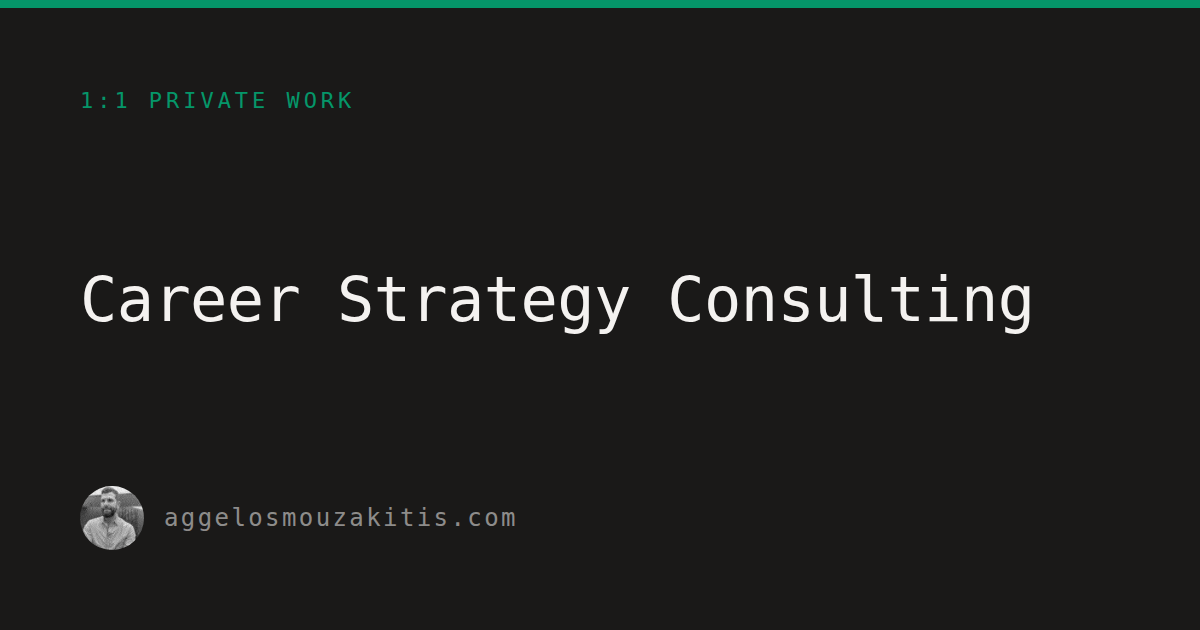
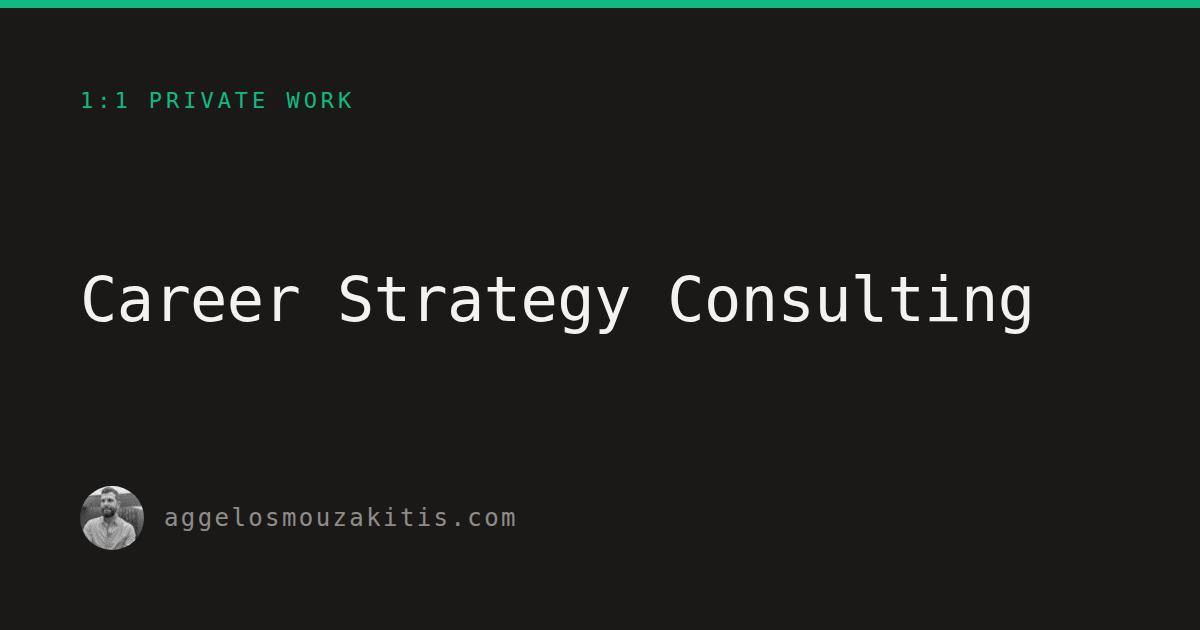
OG images: use the on-dark green for the dark share-card template
The site-wide green swap set og.js to the deep #047857, but the OG card is
dark — the vibrant on-dark green #10B981 is the right accent there (matching
what the dark sections now use). Regenerate the 5 cards og_pages.json covers
(the three offer pages, Start Here, Contact). The other legacy cards keep the
original bright green, which is visually equivalent on the dark card.

Claude-Session: https://claude.ai/code/session_01BXZx48QvosGwWQ3ucm1bHN

Changed region(s): [[0.0, 0.0, 1.0, 0.0302], [0.1233, 0.1508, 0.2158, 0.181], [0.2467, 0.1508, 0.2775, 0.181]]

diff --git a/scripts/seo/og.js b/scripts/seo/og.js
@@ -8,8 +8,8 @@ const tpl = (label, title) => `<!DOCTYPE html><html><head><meta charset="utf-8">
 html,body { width:1200px; height:630px; }
 body { background:#1A1918; font-family:'DejaVu Sans Mono',monospace; color:#F4F2F0;
   padding:80px; display:flex; flex-direction:column; justify-content:space-between;
-  border-top:8px solid #047857; }
-.label { font-size:22px; letter-spacing:.18em; text-transform:uppercase; color:#047857; }
+  border-top:8px solid #10B981; }
+.label { font-size:22px; letter-spacing:.18em; text-transform:uppercase; color:#10B981; }
 .title { font-size:62px; line-height:1.25; letter-spacing:-.01em; max-width:1040px;
   color:#F4F2F0; font-weight:normal; }
 .title.small { font-size:48px; }
